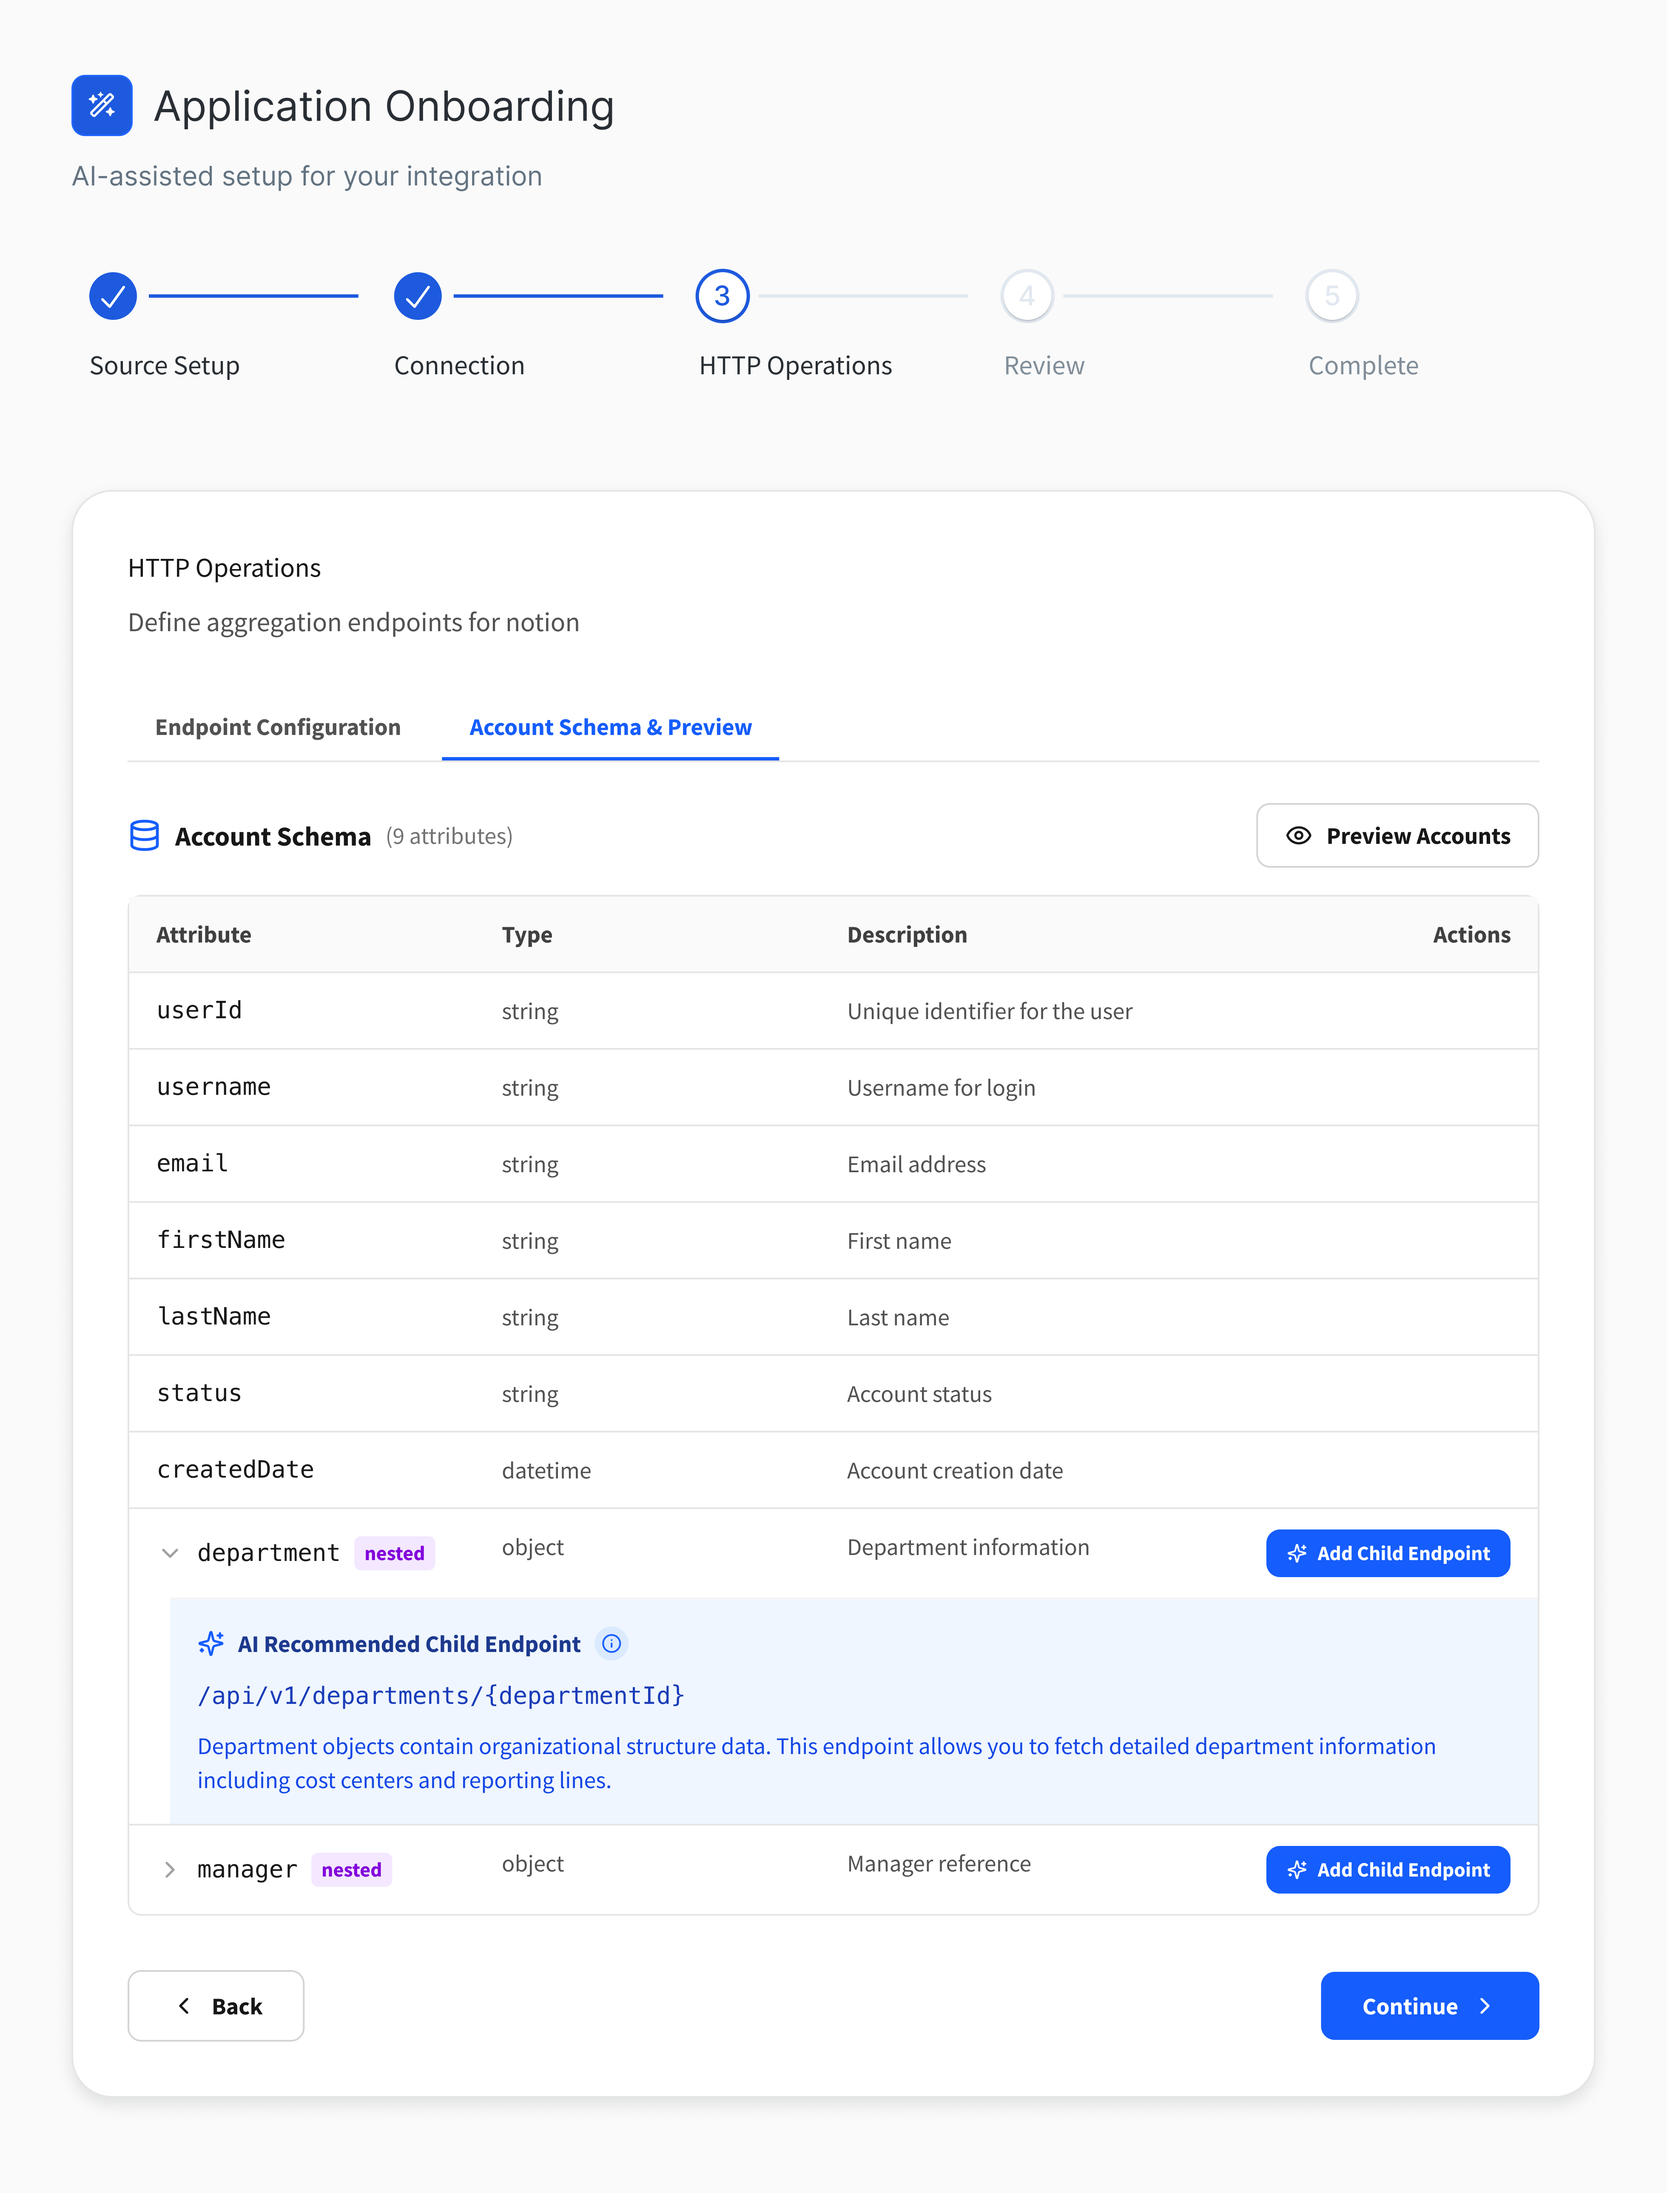
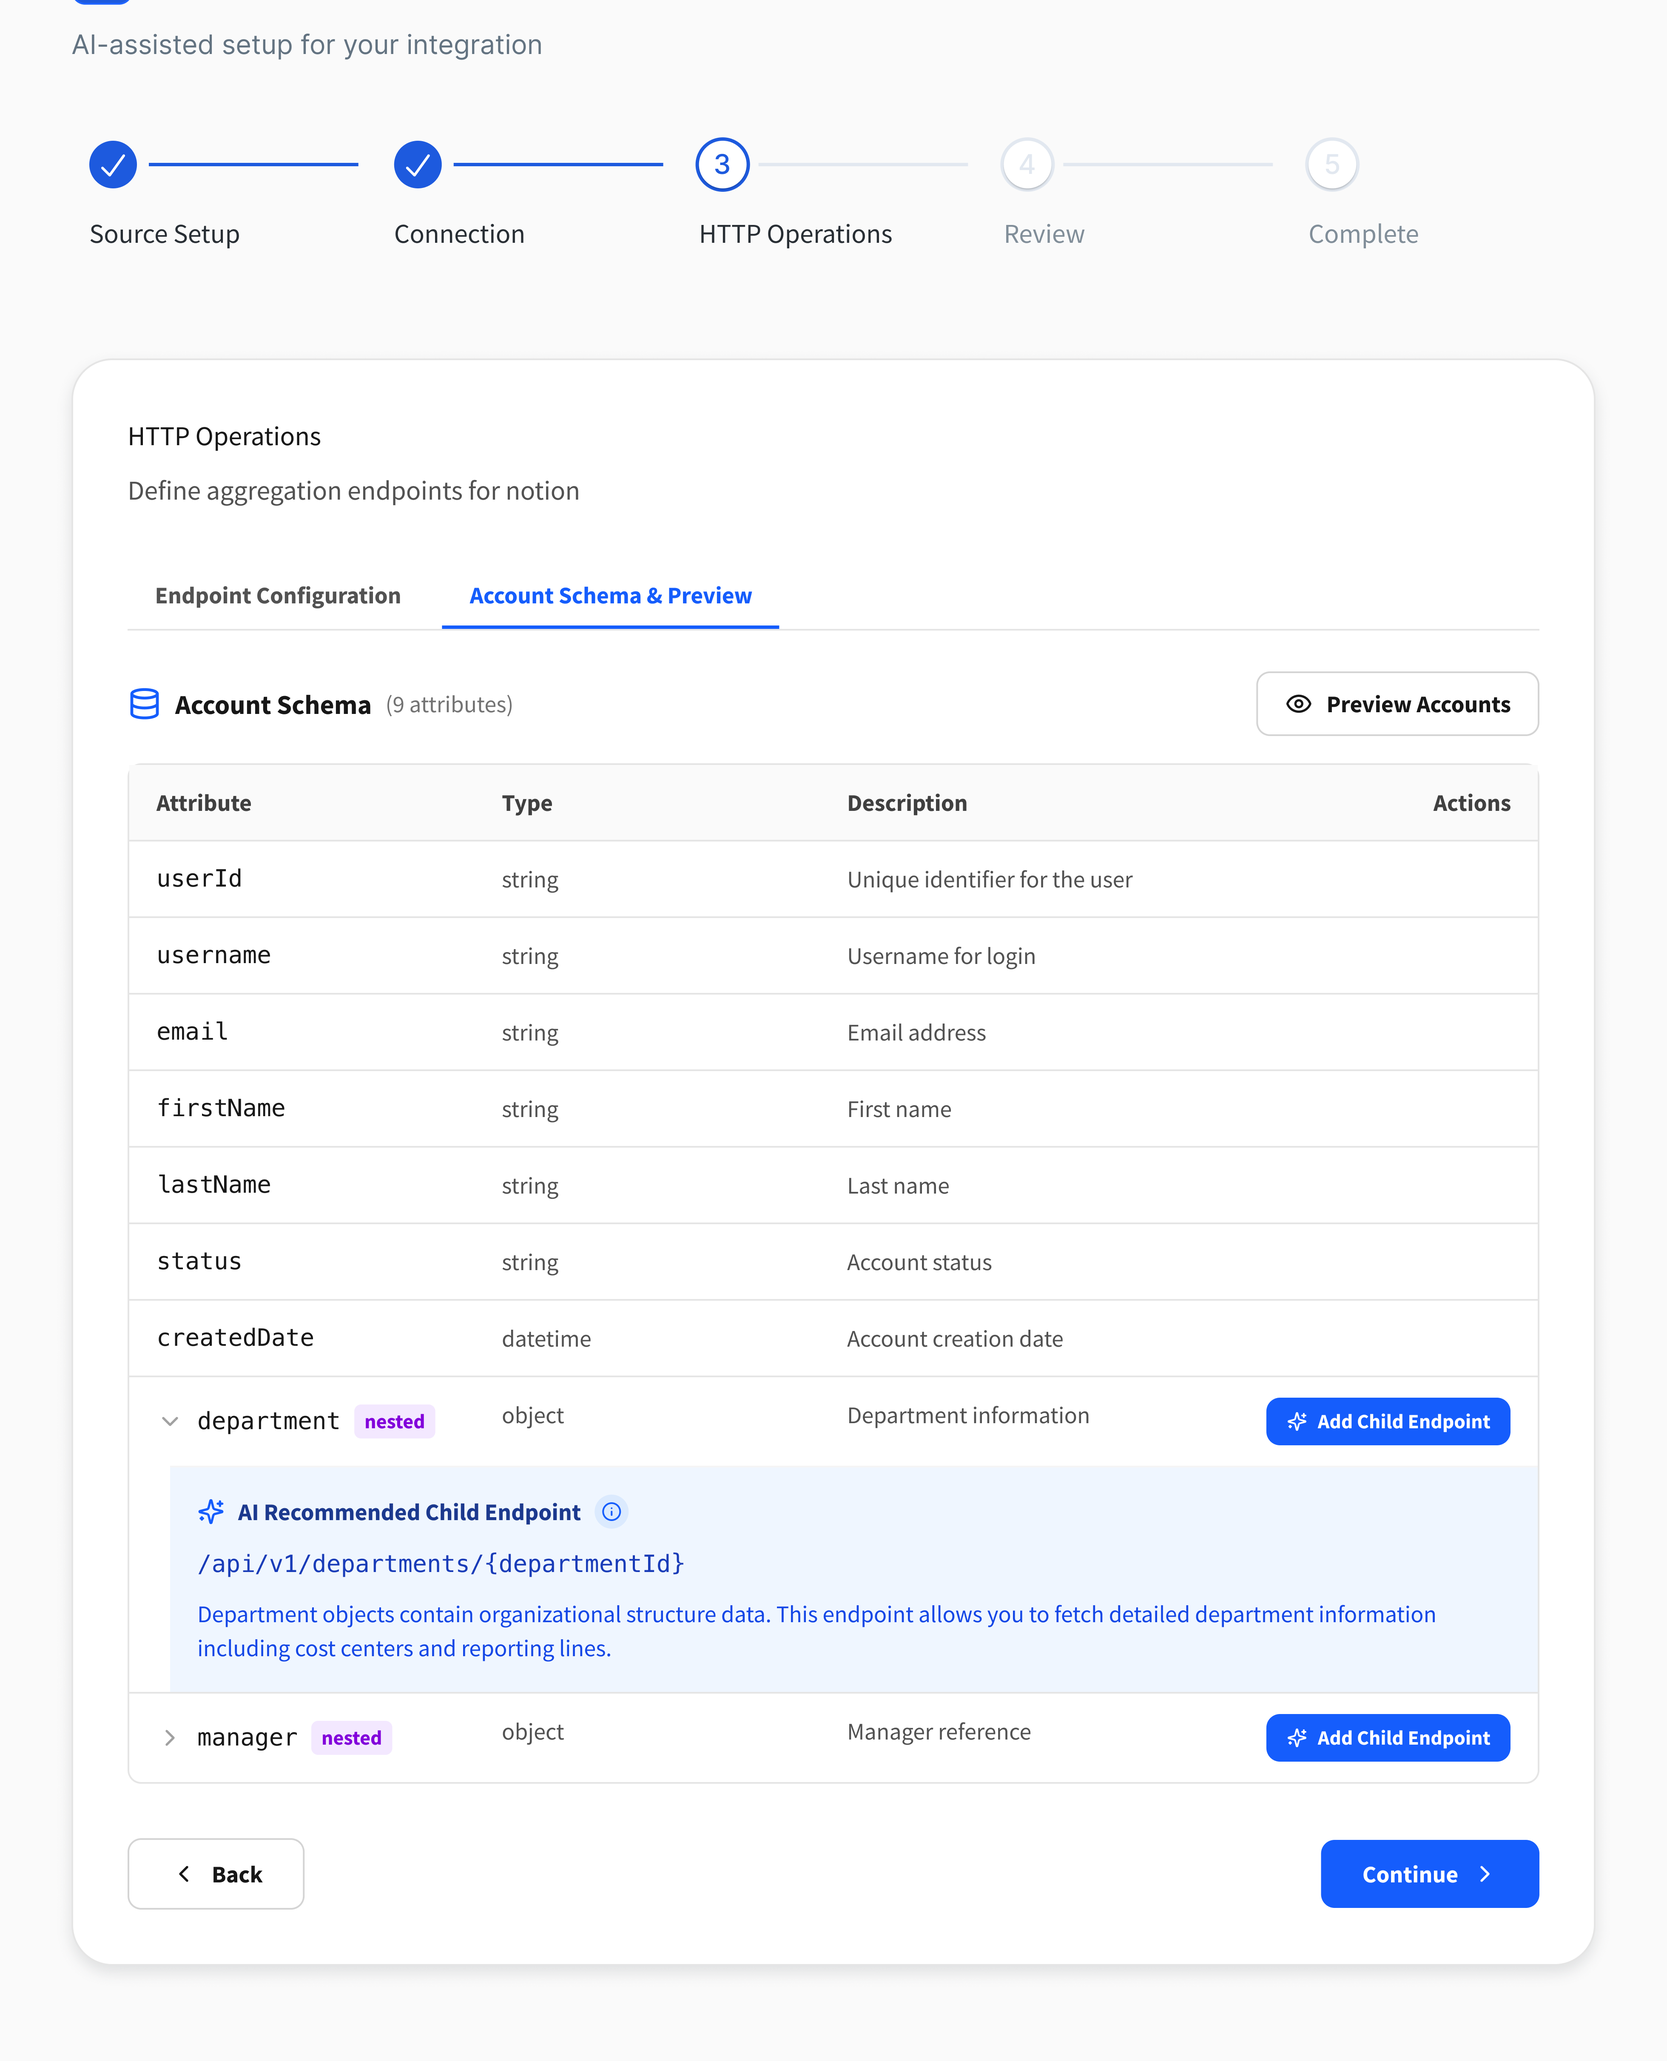
Stack version cards vertically, trim V2 screenshot's top edge
Cropped ~6% off the top of the V2 account-schema screenshot and
updated its aspect ratio to match. Switched the V1/V2/V3 cards from
a side-by-side grid to a vertical stack.

diff --git a/Jess Li - Portfolio.dc.html b/Jess Li - Portfolio.dc.html
@@ -794,7 +794,7 @@
               </div>
             </sc-if>
             <sc-if value="{{ block.isVersionCards }}">
-              <div data-reveal="" style="display:grid;grid-template-columns:repeat(auto-fit,minmax(190px,1fr));gap:clamp(16px,2vw,24px);margin:clamp(28px,3.6vw,44px) 0;">
+              <div data-reveal="" style="display:flex;flex-direction:column;gap:clamp(16px,2vw,24px);margin:clamp(28px,3.6vw,44px) 0;">
                 <sc-for list="{{ block.items }}" as="v" hint-placeholder-count="3">
                   <div style="border:1px solid var(--line);border-radius:12px;padding:clamp(16px,1.8vw,20px);background:var(--surface);">
                     <image-slot src="{{ v.img }}" style="width:100%;height:auto;aspect-ratio:{{ v.ratio }};display:block;border-radius:7px;overflow:hidden;margin-bottom:14px;border:1px solid var(--line);" shape="rounded" radius="7" fit="contain" placeholder="{{ v.title }}"></image-slot>
@@ -1503,7 +1503,7 @@ class Component extends DCLogic {
         {type:'compare', beforeLabel:'V1: chat panel', afterLabel:'Current: inline wizard', beforeImg:'assets/sailpoint-start-before.jpg', afterImg:'assets/sailpoint-start-after.jpg', beforeRatio:'1.594', afterRatio:'1.25', beforeCaption:`Two ways to move forward at once: a Continue inside the assist panel, a Save and Continue at the bottom, built without knowing about each other.`, afterCaption:`The same first step today: one field, one sentence of static help text.`, caption:`How the wizard starts, before and after.`},
         {type:'versioncards', items:[
           {v:'V1', title:'Scripted chat', text:`Guided, but rigid.`, img:'assets/sailpoint-schema-v1.png', ratio:'1.601'},
-          {v:'V2', title:'Inline AI', text:`Contextual, but cluttered.`, img:'assets/sailpoint-schema-v2.png', ratio:'0.7605'},
+          {v:'V2', title:'Inline AI', text:`Contextual, but cluttered.`, img:'assets/sailpoint-schema-v2.png', ratio:'0.8087'},
           {v:'V3', title:'Wand + drawer', text:`Progressive, controllable, explainable.`, img:'assets/sailpoint-schema-v3.png', ratio:'1.0811'}
         ]},
         {type:'image', slot:'cs-sailpoint-fullflow', ratio:'1.6', caption:`The complete flow: connector picker through source setup, recommendation, and review.`},
